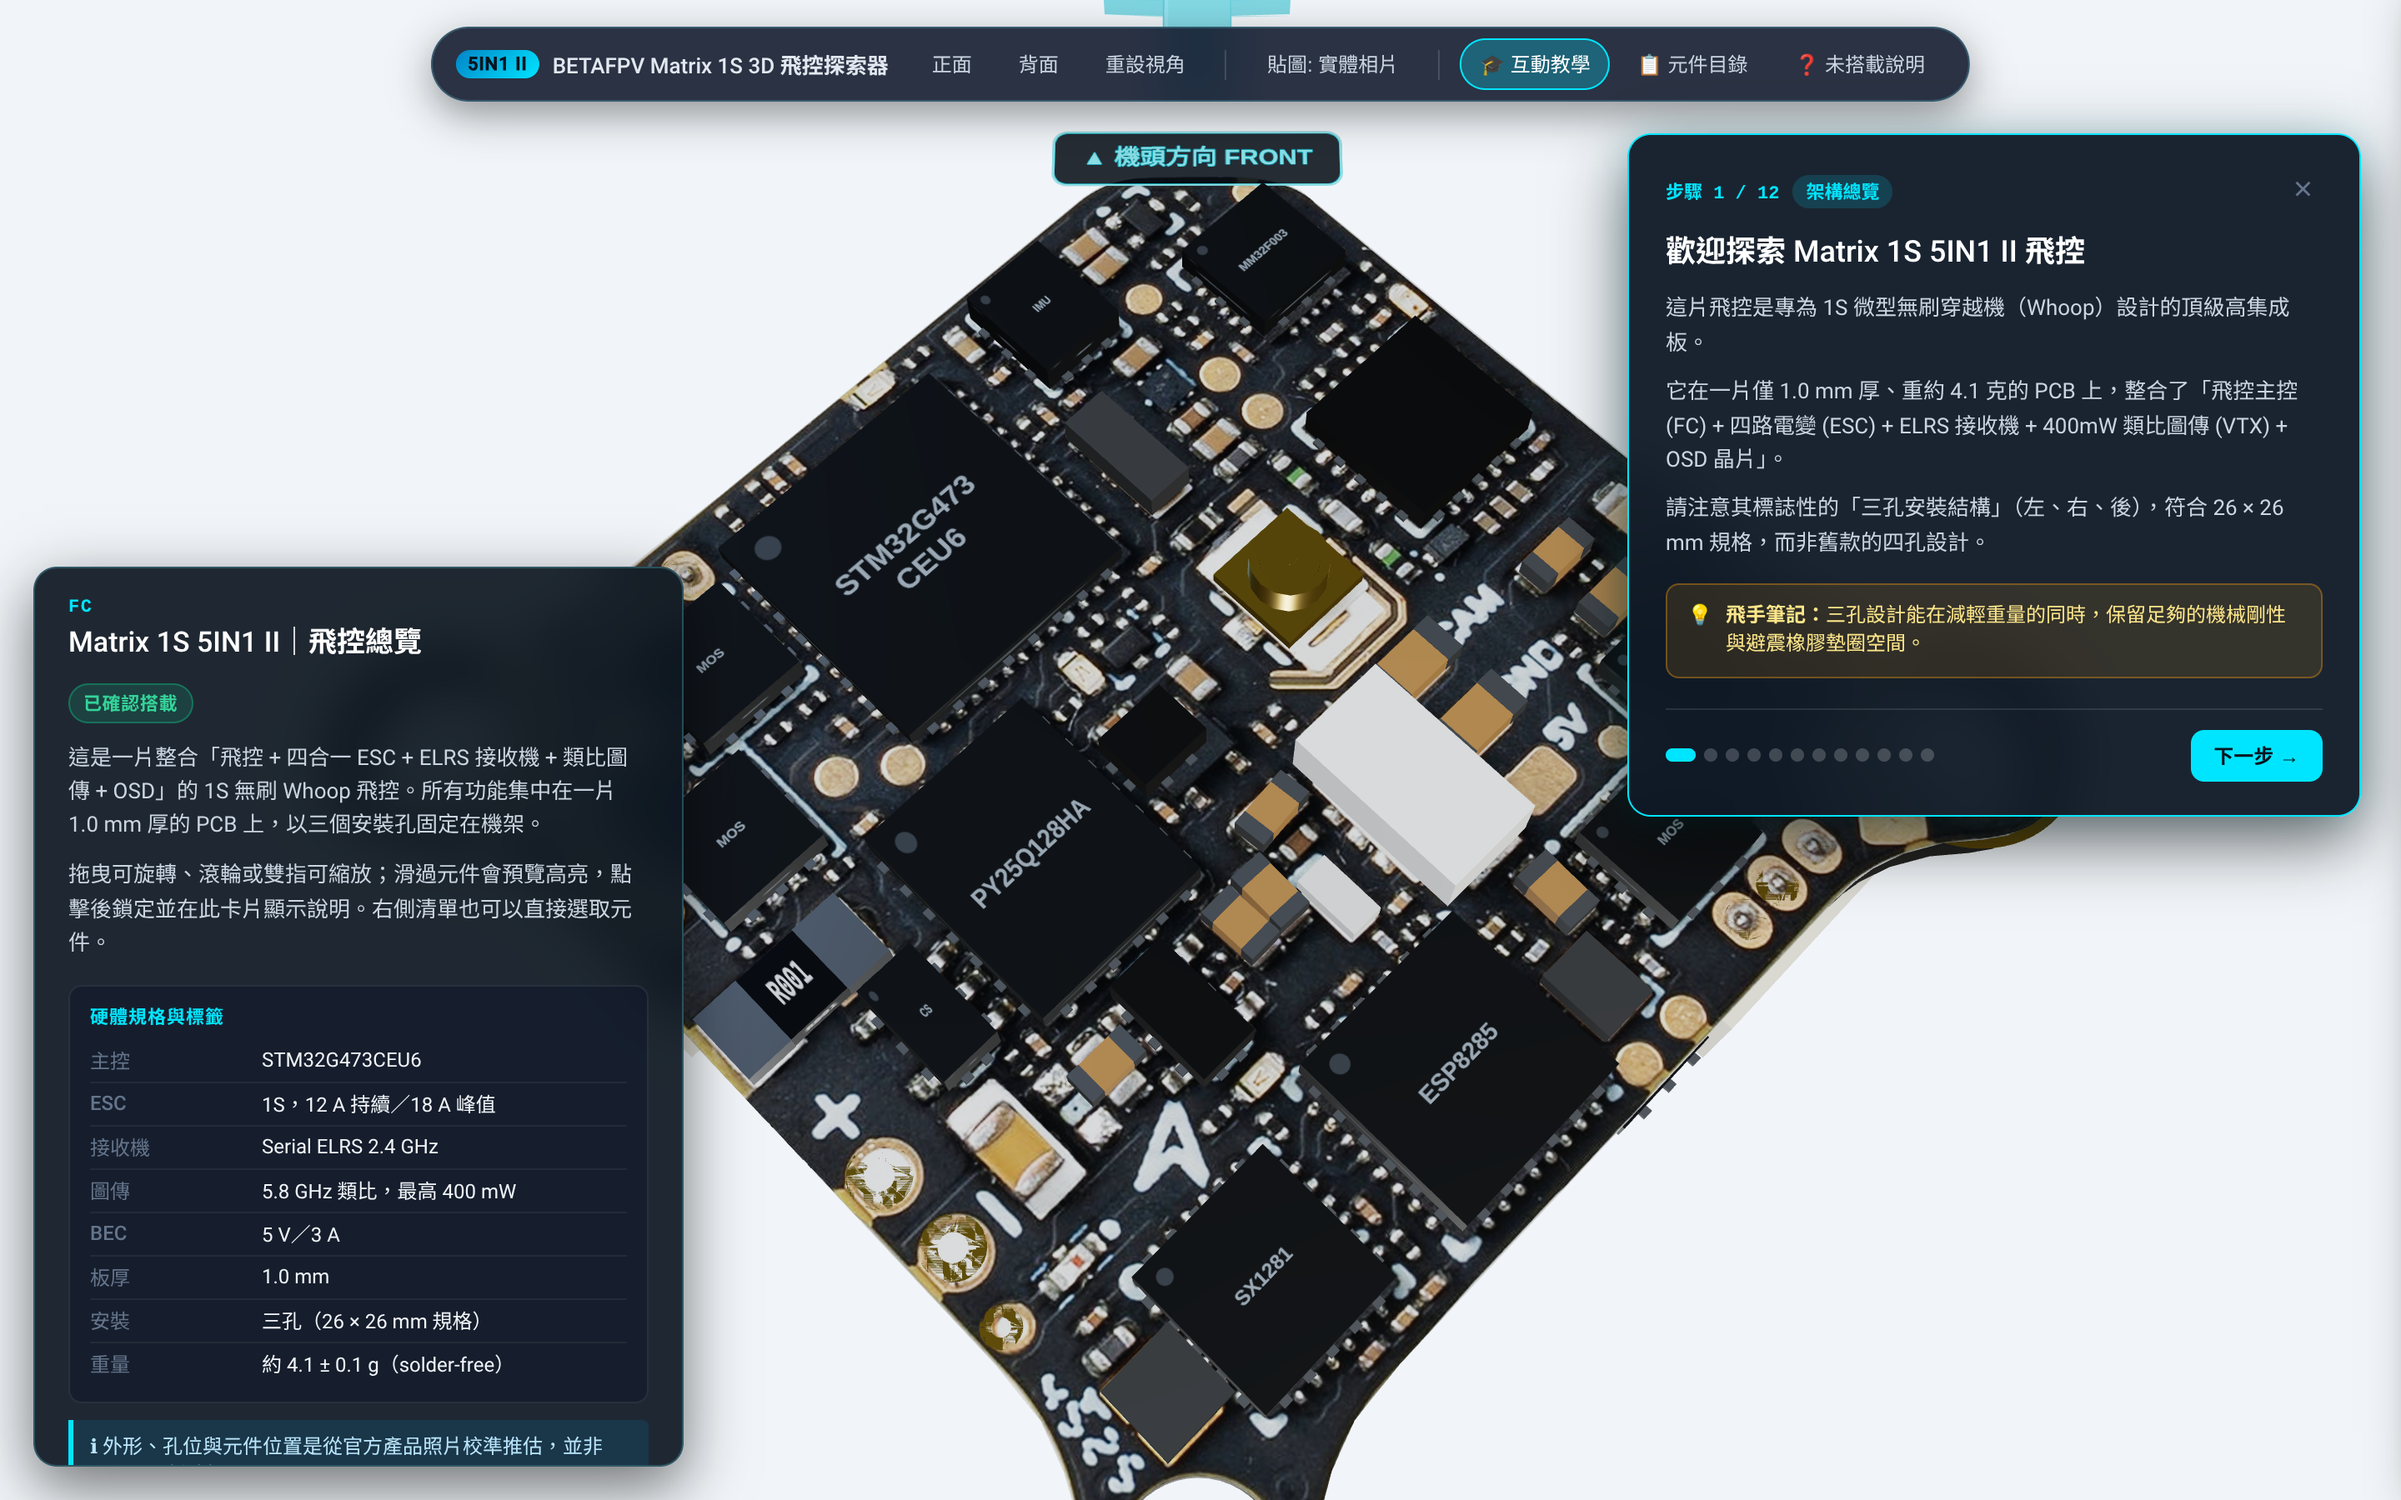
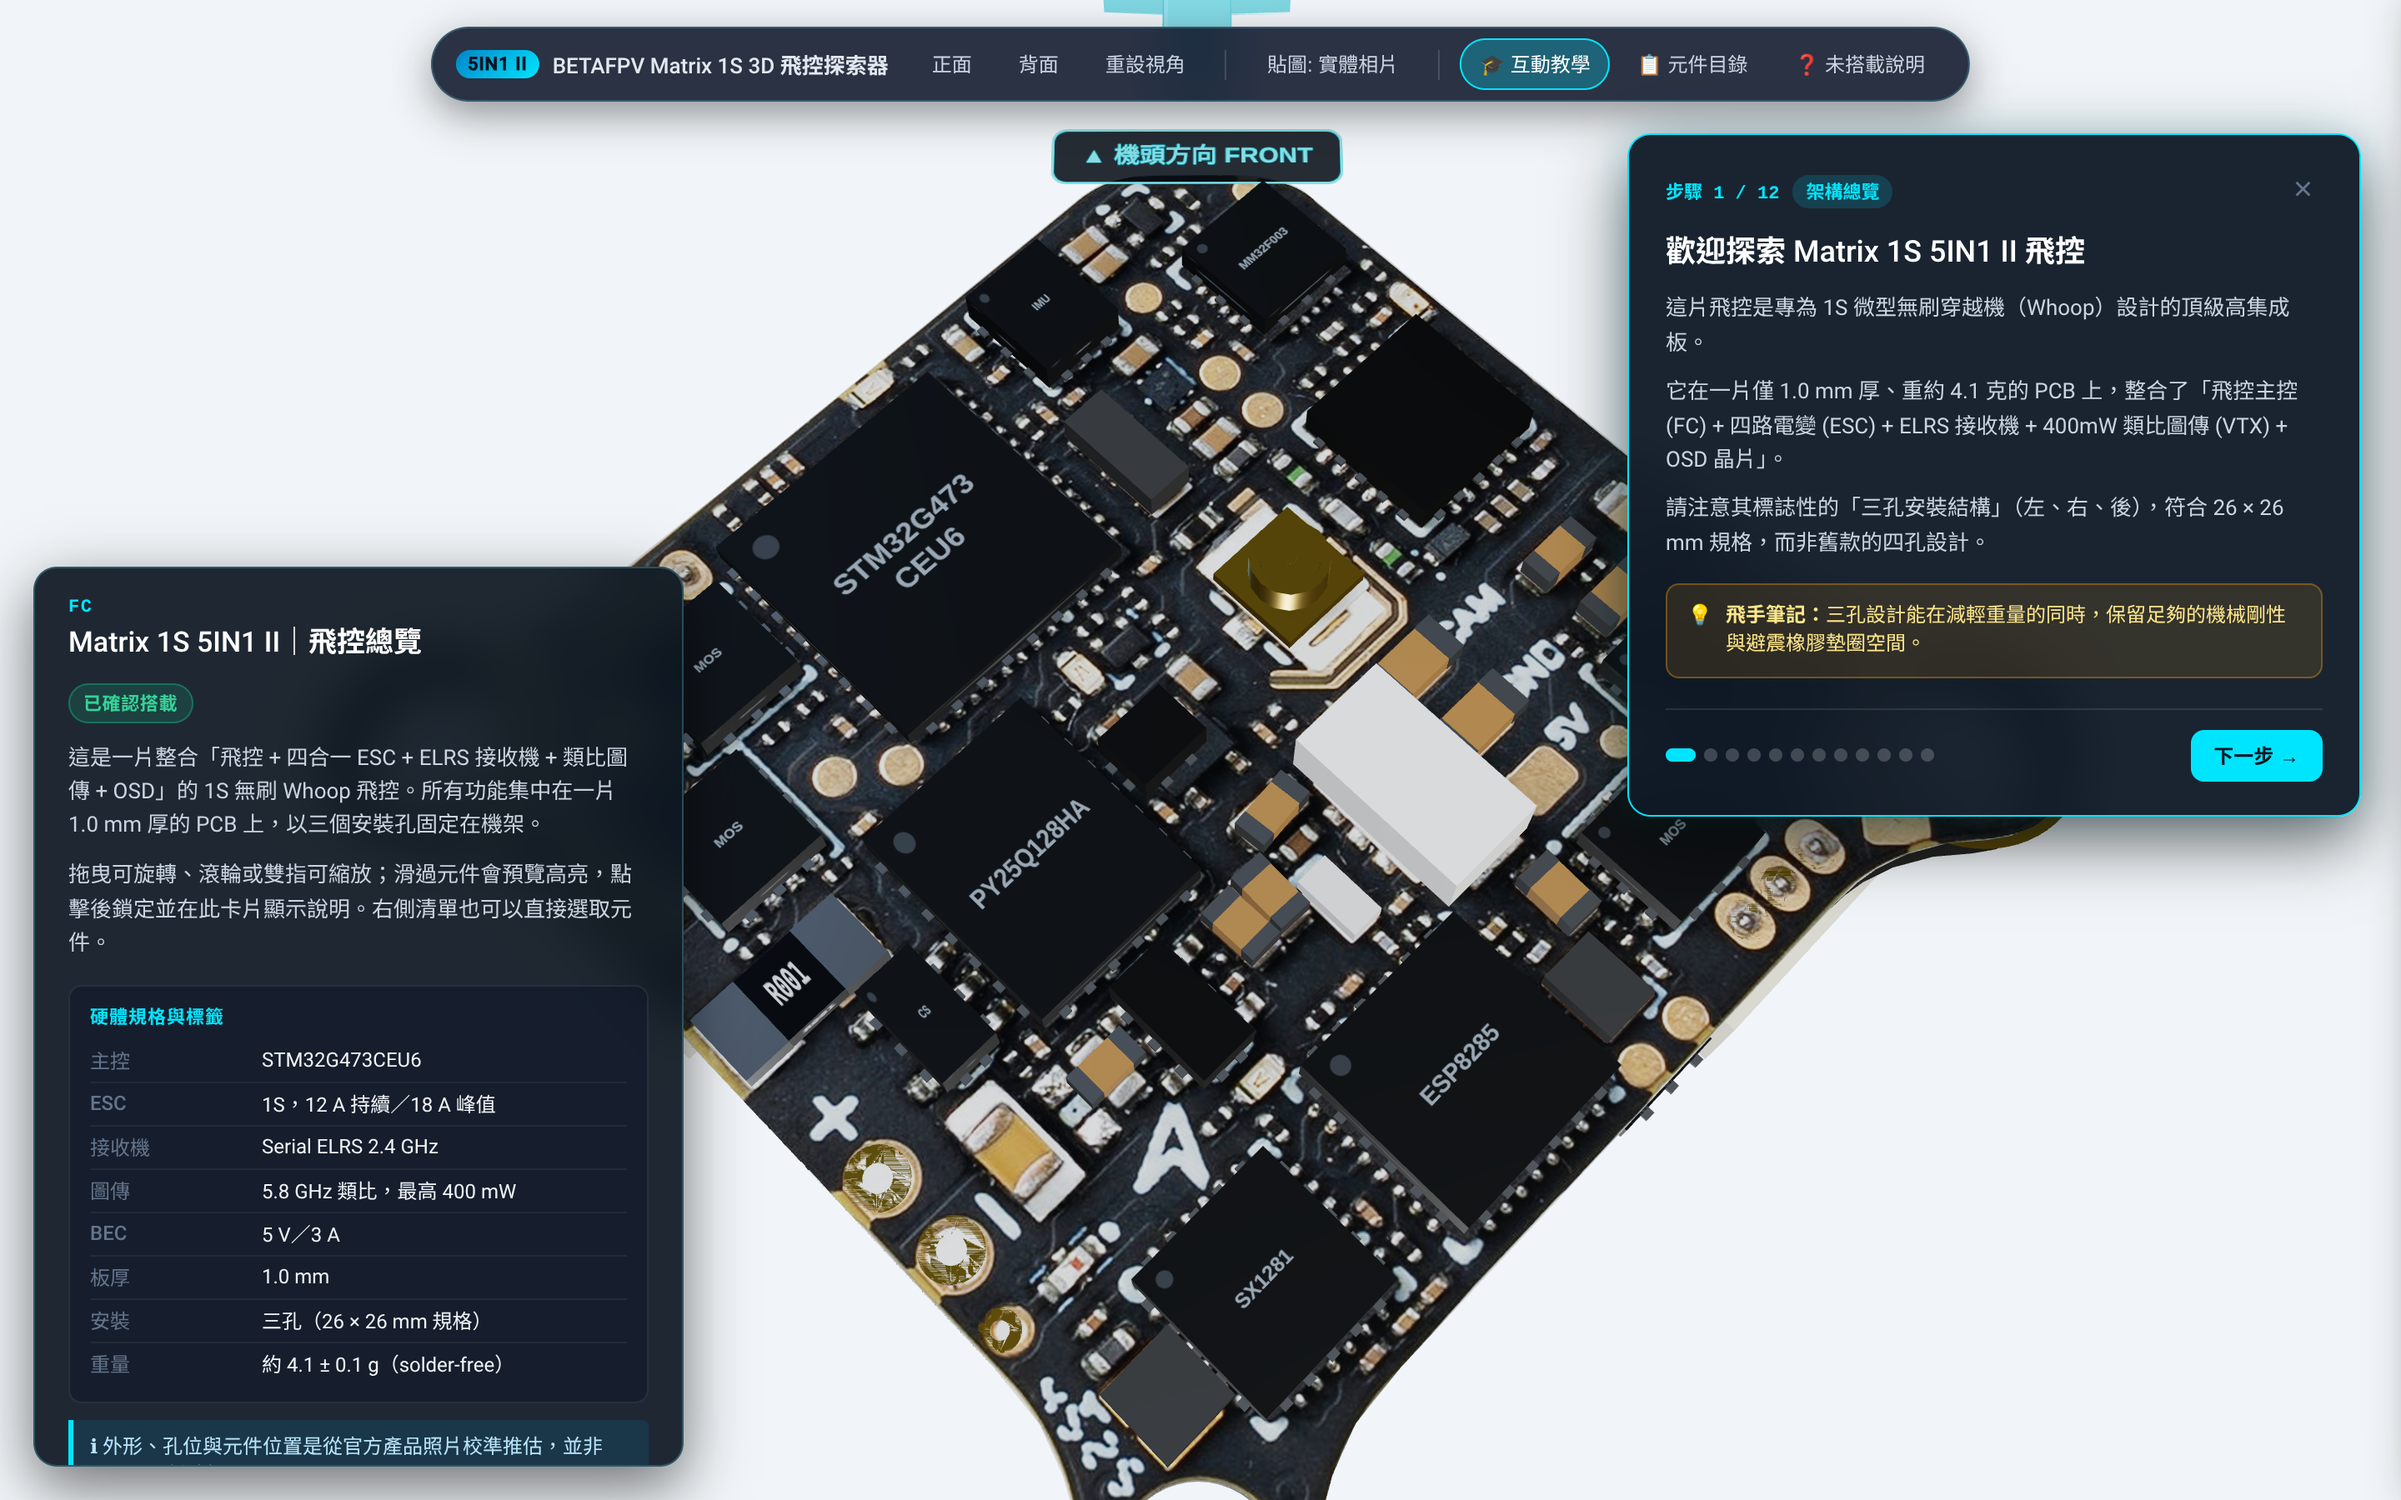
fix(ui): suppress hover tooltip on blank PCB body

diff --git a/src/main.ts b/src/main.ts
@@ -173,9 +173,9 @@ function init() {
       }
     }
 
-    // Raycast hover only when not dragging
+    // Raycast hover only when not dragging (ignore generic PCB board body for hover tooltip)
     const hit = picker.pick(nx, ny);
-    if (hit.componentId) {
+    if (hit.componentId && hit.componentId !== 'board') {
       hoveredId = hit.componentId;
       dom.style.cursor = 'pointer';
 
@@ -205,10 +205,10 @@ function init() {
       const ny = -(((e.clientY - rect.top) / rect.height) * 2 - 1);
       const hit = picker.pick(nx, ny);
 
-      if (hit.componentId) {
+      if (hit.componentId && hit.componentId !== 'board') {
         selectComponent(hit.componentId);
       } else {
-        // Click on background clears selection
+        // Click on background or empty PCB clears component selection / returns to overview
         selectComponent(null);
       }
     }
